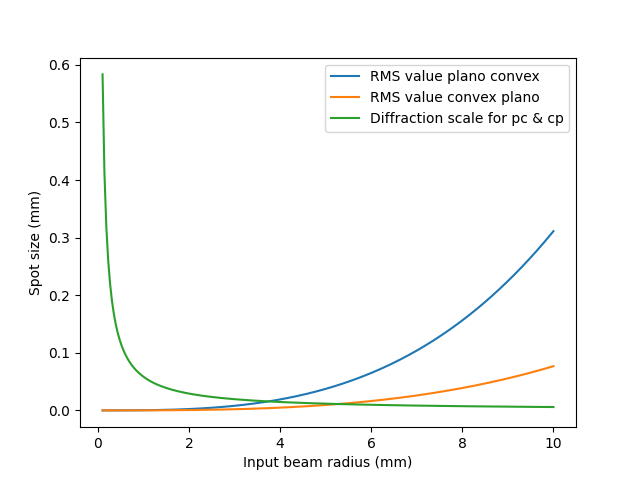
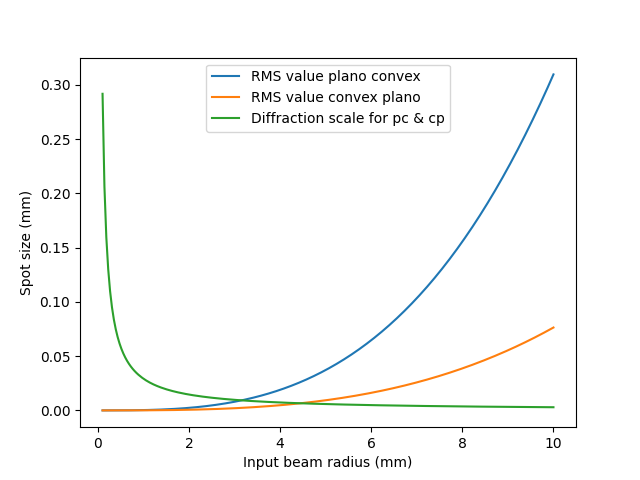
all tests finished

diff --git a/raytracer/analysis.py b/raytracer/analysis.py
@@ -26,16 +26,14 @@ def task8():
     to check that the correct values are appended to your Ray object.
     """
 
-    ray = Ray(np.array([0, 0, 0]), np.array([0, 0, 1]))
+    rays = [Ray(np.array([0, 0, 0]), np.array([0, 0, 1])), Ray(np.array([0, 1, 0]), np.array([0, 0, 1])), Ray(np.array([0, -1, 0]), np.array([0, 0, 1]))]
 
-    aperature = SphericalRefraction(20, 5, 10, 1, 1.5) 
+    surface = SphericalRefraction(20, 5, 10, 1, 1.5) 
 
-    new_ray = aperature.propagate_ray(ray)
-    print("final pos:", ray.pos())
-    print("final direc:", ray.direc())
-    print("vertices:", ray.vertices())
-    print("propagated ray:", repr(new_ray))
-    return new_ray
+    for ray in rays:
+        surface.propagate_ray(ray)
+      
+    return rays[1]
 
 @SaveOutput("task10")
 def task10():
@@ -50,21 +48,25 @@ def task10():
     Returns:
         Figure: the ray path plot.
     """
-    ray = Ray(np.array([0, 0, 0]), np.array([0, 0, 1]))
+    positions = ([0, 4, 0], [0, 1, 0], [0, 0.2, 0], [0, 0, 0], [0, -0.2, 0], [0, -1, 0], [0, -4, 0])
+    #positions given in the task
 
     surface = SphericalRefraction(100, 34, 0.03, 1, 1.5) #given values in the task
 
     screen = OutputPlane(250)
 
-    surface.propagate_ray(ray)
-    screen.propagate_ray(ray)
+    for pos in positions:
+        ray = Ray(np.array(pos), np.array([0, 0, 1]))
+        surface.propagate_ray(ray)
+        screen.propagate_ray(ray)
 
-    vertices = ray.vertices() #tracing the travel of the ray
+        vertices = ray.vertices() #tracing the travel of the ray
 
-    z = [point[2] for point in vertices] #plot z-direction the direction of ray travel on x-axis in the plot
-    y = [point[1] for point in vertices]
+        z = [point[2] for point in vertices] #plot z-direction the direction of ray travel on x-axis in the plot
+        y = [point[1] for point in vertices]
 
-    plt.plot(z, y)
+        plt.plot(z, y)
+
     plt.xlabel("Ray travelling in z-direction")
     plt.ylabel("y-direction")
     return plt.gcf()
@@ -188,24 +190,27 @@ def task14():
     diff_values = []
     rms_2_5 = 0
     diff_2_5 = 0
+    surface = SphericalRefraction(100, 34, 0.03, 1, 1.5)
+    focal_point = surface.focal_point()
+    screen = OutputPlane(focal_point) #screen placed at the focal point
+    
     for i in np.linspace(0.1, 10., 240): #240 chosen so we get a value in one of the steps close to 2.5 mm
         rb = RayBundle(rmax=i, nrings=5., multi=6) #max radius 10 and min 0.1 milimeters
-        surface = SphericalRefraction(100, 34, 0.03, 1, 1.5)
-        focal_point = surface.focal_point()
-        screen = OutputPlane(focal_point) #screen placed at the focal point
         rb.propagate_bundle([surface, screen])
         rms_point = rb.rms()
         radii.append(i)
         rms_values.append(rms_point)
         
         wavelength = 588e-6 #in milimeters
-        aperature = 2 * i #diameter of the refracting surface
+        aperature = 2 * 2 * i #diameter of the refracting surface
         del_x = wavelength * focal_point / aperature
         diff_values.append(del_x)
-
-        if np.isclose(i, 2.5):
-            rms_2_5 = rb.rms()
-            diff_2_5 = del_x
+    
+    rb = RayBundle(rmax = 2.5, nrings = 5, multi = 6)
+    rb.propagate_bundle([surface, screen])
+    rms_2_5 = rb.rms()
+    aperture_2_5 = 2 * 2 * 2.5
+    diff_2_5 = wavelength * focal_point / aperture_2_5
     
     plt.plot(radii, rms_values, label ="RMS value")
     plt.plot(radii, diff_values, label = "Diffraction scale")
@@ -289,6 +294,7 @@ def task16():
     cp = PlanoConvex(z_0=100, curvature1=0.02, curvature2=0., n_inside=1.5168, n_outside=1., thickness=5., aperture=50.)
     focal_point_cp = cp.focal_point_lens()
     screen_cp = OutputPlane(focal_point_cp)
+    wavelength = 588e-6 #in milimeters
     for i in np.linspace(0.1, 10., 240): 
         rb_pc = RayBundle(rmax=i, nrings=5., multi=6) #max radius 10 and min 0.1 milimeters
         rb_cp = RayBundle(rmax=i, nrings=5., multi=6) #max radius 10 and min 0.1 milimeters
@@ -299,17 +305,23 @@ def task16():
         radii.append(i)
         
         
-        wavelength = 588e-6 #in milimeters
-        aperature = 2 * i #diameter of the refracting surface
+        aperature = 2 * 2 * i #diameter of the refracting surface
         del_x_pc = wavelength * focal_point_pc / aperature
         del_x_cp = wavelength * focal_point_cp / aperature
         diff_val_pc.append(del_x_pc)
         diff_val_cp.append(del_x_cp)
 
-        if np.isclose(i, 3.5):
-            rms_3_5_pc = rb_pc.rms()
-            rms_3_5_cp = rb_cp.rms()
-            diff_3_5 = del_x_pc
+    rb_pc = RayBundle(rmax=3.5, nrings=5., multi=6)
+    rb_cp = RayBundle(rmax=3.5, nrings=5., multi=6)
+
+    rb_pc.propagate_bundle([pc, screen_pc])
+    rb_cp.propagate_bundle([cp, screen_cp])
+
+    rms_3_5_pc = rb_pc.rms()
+    rms_3_5_cp = rb_cp.rms()
+
+    aperture = 2 * 3.5
+    diff_3_5 = wavelength * (focal_point_pc - 105.) / aperture #the effective focal length is measured from the rear end of the lens therefore 5 mm thickness and z_0 at 100 results in 105. mm
     
     plt.plot(radii, rms_pc, label ="RMS value plano convex")
     #plt.plot(radii, diff_val_pc, label = "Diffraction scale plano convex")
@@ -320,8 +332,8 @@ def task16():
     
     plt.legend()
 
-    print(rms_3_5_pc)
-    print(rms_3_5_cp)
+    print(focal_point_pc)
+    print(focal_point_cp)
 
     return plt.gcf(), rms_3_5_pc, rms_3_5_cp, diff_3_5
 
@@ -345,16 +357,17 @@ def task17():
     """
 
     cpl = PlanoConvex(z_0=100, curvature1=0.02, curvature2=0., n_inside=1.5168, n_outside=1., thickness=5., aperture=50.)
-    rb_cpl = RayBundle(rmax=5., nrings=5., multi=6)
     rb_bil = RayBundle(rmax=5., nrings=5., multi=6)
+    rb_cpl = RayBundle(rmax=5., nrings=5., multi=6)
     focal_point_cpl = cpl.focal_point_lens()
     screen_cpl = OutputPlane(focal_point_cpl) 
 
     def rms_minimize(curvatures): #using the curvatures as parameters of hte biconvex lens to find the minimized rms
         c1, c2 = curvatures
         biconvex_lens = BiConvex(z_0=100, curvature1=c1, curvature2=c2, n_inside=1.5168, n_outside=1., thickness=5., aperture=50.)
-        rb_bil.propagate_bundle([biconvex_lens, screen_cpl])
-        return rb_bil.rms()
+        rb = RayBundle(rmax=5., nrings=5., multi=6)
+        rb.propagate_bundle([biconvex_lens, screen_cpl])
+        return rb.rms()
 
     rb_cpl.propagate_bundle([cpl, screen_cpl])
     rms_cpl = rb_cpl.rms()
@@ -432,7 +445,7 @@ def task19():
         radii.append(i)
 
         for ray in rb_pc.rays(): #for each ray in the bundle calculating the transverse distance from the optical axis and the z intercept
-            z_intercept.append(ray.z_int())
+            z_intercept.append(ray.z_int()())
             start_pos = ray.vertices()[0]
             r_add = np.sqrt(start_pos[0] * start_pos[0] + start_pos[1] * start_pos[1])
             r.append(r_add)
@@ -492,8 +505,7 @@ if __name__ == "__main__":
     #FIG10 = task10()
 
     # Run task 11 function
-    #task11()
-    FIG11, FOCAL_POINT = task11()
+    #FIG11, FOCAL_POINT = task11()
 
     # Run task 12 function
     #FIG12 = task12()
@@ -508,6 +520,7 @@ if __name__ == "__main__":
     #FIG15_PC, FOCAL_POINT_PC, FIG15_CP, FOCAL_POINT_CP = task15()
 
     # Run task 16 function
+    task16()
     #FIG16, PC_RMS, CP_RMS, TASK16_DIFF_SCALE = task16()
 
     # Run task 17 function

diff --git a/raytracer/rays.py b/raytracer/rays.py
@@ -3,6 +3,7 @@ import numpy as np
 #from raytracer.elements import OpticalElement
 import matplotlib.pyplot as plt
 #from raytracer.elements import OutputPlane
+from raytracer.genpolar import rtrings
 
 class Ray:
     def __init__(self, pos = np.array([0, 0, 0]), direc = np.array([0, 0, 1]), wavelength = 588e-9):
@@ -45,12 +46,13 @@ class Ray:
         #to return ray object in string form to make it more comprehensible
         return f"Ray(pos={self.__pos}, direc={self.__direc})"
     def z_int(self):
-        #calculates where the ray crosses the optical axis given its direction
-        direc = self.direc()
-        pos = self.pos()
-        l = - pos[0] / direc[0] #since x and y must be 0 when the ray crosses the optical axis
-        z = pos[2] + l * direc[2]
-        return z
+        def calculate():
+            #calculates where the ray crosses the optical axis given its direction
+            direc = self.direc()
+            pos = self.pos()
+            l = - pos[0] / direc[0] #since x and y must be 0 when the ray crosses the optical axis
+            return pos[2] + l * direc[2]
+        return calculate #defined an inner function because the test tries to call z_int twice
 
 class RayBundle:
     def __init__(self, rmax = 5., nrings = 5., multi = 6): #ray bundle is a circular light beam
@@ -61,16 +63,13 @@ class RayBundle:
 
         #we NEED to add the CENTRAL RING
         self.__rays.append(Ray(np.array([0., 0., 0.]), np.array([0., 0., 1.])))
-        for iring in range(1, int(nrings)+1): #0th ring doesn't make sense so range starts from 1
-            radius = iring * rmax / nrings
-            npoints = iring * multi
-            for ipoint in range(npoints):
-                theta = np.pi * 2 * ipoint / npoints
-                x =  np.cos(theta) * radius
-                y = np.sin(theta) * radius
-                ray = Ray(np.array([x , y , 0]), np.array([0, 0, 1])) #direction is along optical axis and z start position is 0
-                self.__rays.append(ray) #create a ray list of spherical coordinates
-        
+        for radius, theta in rtrings(rmax, nrings, multi):
+            if radius == 0:
+                continue
+            x =  np.cos(theta) * radius
+            y = np.sin(theta) * radius
+            ray = Ray(np.array([x , y , 0]), np.array([0, 0, 1])) #direction is along optical axis and z start position is 0
+            self.__rays.append(ray) #create a ray list of spherical coordinates
 
     def rays(self):
         return self.__rays

diff --git a/raytracer/genpolar.py b/raytracer/genpolar.py
@@ -3,10 +3,23 @@ import numpy as np
 def rtrings(rmax=5., nrings=5, multi=6):
     yield 0., 0.
 
-    for iring in range(1, nrings + 1):
-        radius = iring * rmax / nrings #max radius / number of rings gives the spacing between the riings
-        npoints = iring * multi #number of points on each ring
+    for iring in range(1, int(nrings)+1): #0th ring doesn't make sense so range starts from 1
+            radius = iring * rmax / nrings
+            npoints = iring * multi
+            for ipoint in range(npoints):
+                theta = np.pi * 2 * ipoint / npoints
+                yield radius, theta
+        
 
-        for ipoint in range(npoints):
-            theta = 2 * np.pi * ipoint / npoints #location of ipoint in all points along the ring fraction times 2pi gives the angle
-            yield radius, theta
+"""
+for iring in range(1, int(nrings)+1): #0th ring doesn't make sense so range starts from 1
+            radius = iring * rmax / nrings
+            npoints = iring * multi
+            for ipoint in range(npoints):
+                theta = np.pi * 2 * ipoint / npoints
+                x =  np.cos(theta) * radius
+                y = np.sin(theta) * radius
+                ray = Ray(np.array([x , y , 0]), np.array([0, 0, 1])) #direction is along optical axis and z start position is 0
+                self.__rays.append(ray) #create a ray list of spherical coordinates
+        
+"""

diff --git a/raytracer/lenses.py b/raytracer/lenses.py
@@ -19,7 +19,7 @@ class PlanoConvex:
         self.__concave_lens.propagate_ray(ray)
     #focal point calculator usign paraxial approximation, just propagating the ray through the refracting surface to see where it ends up
     def focal_point_lens(self):
-        ray = Ray(np.array([0.1, 0, 0]), np.array([0, 0, 1]))
+        ray = Ray(np.array([1e-7, 0, 0]), np.array([0, 0, 1])) #a suffeciently small height was chosen for paraxial approximation to work in position[0]
         self.propagate_ray(ray)
         pos = ray.pos()
         direc = ray.direc()

diff --git a/raytracer/physics.py b/raytracer/physics.py
@@ -3,6 +3,8 @@ import numpy as np
 def refract(direc, normal, n_1, n_2): #assuming that incident and transmitted rays are normalized
     direc = np.array(direc, dtype = float)
     normal = np.array(normal, dtype = float)
+    direc = direc / np.linalg.norm(direc) #normalizing to get unit vectors for both direction and normal to the surface
+    normal = normal / np.linalg.norm(normal)
     sin_1 = np.linalg.norm(np.cross(direc, normal)) #incident angle from normal and direction of incident ray
     cos_1 = -np.dot(direc, normal)
     eta = n_1 / n_2

diff --git a/raytracer/elements.py b/raytracer/elements.py
@@ -173,8 +173,8 @@ class SphericalReflection(SphericalRefraction): #since reflection class has exac
                 curv = self.curvature()
                 rad = 1 / curv
                 focal_point = rad / 2 #focal point equation for spherical mirrors
-                #z0 = self.z_0()
-                return focal_point
+                z0 = self.z_0()
+                return focal_point + z0
 
 
 
